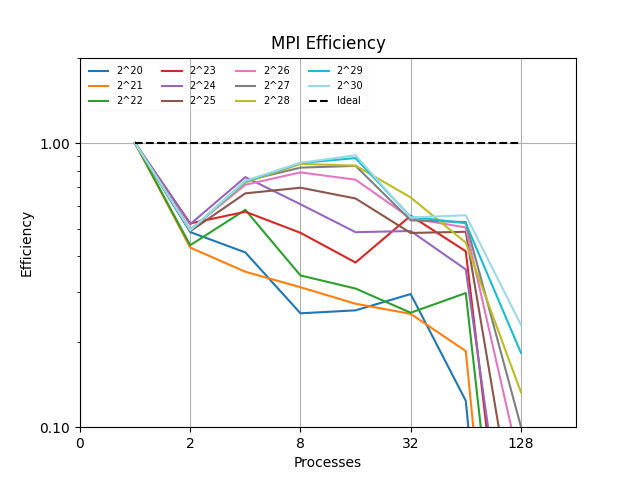
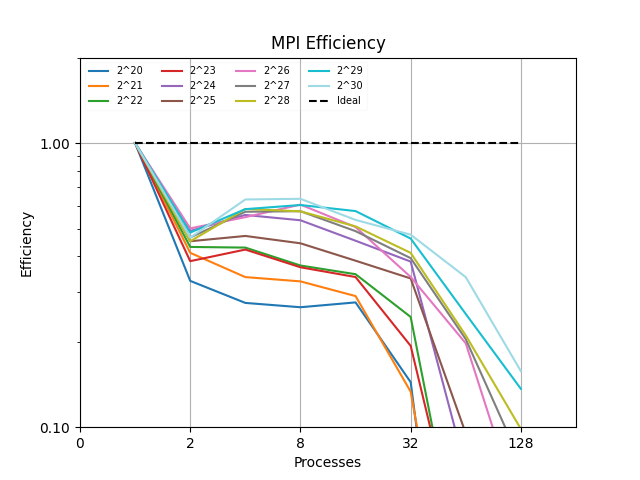
run 10 times for each test

Changed region(s): [[0.2188, 0.3125, 0.8125, 0.9062]]

diff --git a/practica-08/data_analyzer.py b/practica-08/data_analyzer.py
@@ -15,14 +15,14 @@ t_serial = []
 for i in n:
     t_serial.append(data.loc[(data[0] == 'ser') & (data[1] == i)][3].values[0])
 
-# get parallel times
+# get parallel times, average of 10 runs
 t_omp = []
 for i, n_ in enumerate(n):
     t_omp.append([t_serial[i]])
     for p_ in p:
         if p_ == 1:
             continue
-        t_omp[i].append(data.loc[(data[0] == 'omp') & (data[1] == n_) & (data[2] == p_)][3].values[0])
+        t_omp[i].append(data.loc[(data[0] == 'omp') & (data[1] == n_) & (data[2] == p_)][3].mean())
 
 t_mpi = []
 for i, n_ in enumerate(n):
@@ -30,7 +30,7 @@ for i, n_ in enumerate(n):
     for p_ in p:
         if p_ == 1:
             continue
-        t_mpi[i].append(data.loc[(data[0] == 'mpi') & (data[1] == n_) & (data[2] == p_)][3].values[0])
+        t_mpi[i].append(data.loc[(data[0] == 'mpi') & (data[1] == n_) & (data[2] == p_)][3].mean())
 
 colors = plt.cm.tab20(np.linspace(0, 1, len(n)))
 
@@ -143,4 +143,3 @@ plt.gca().yaxis.set_major_formatter(plt.ScalarFormatter())
 plt.grid()
 plt.savefig('Plots/e_mpi.png')
 plt.clf()
-
